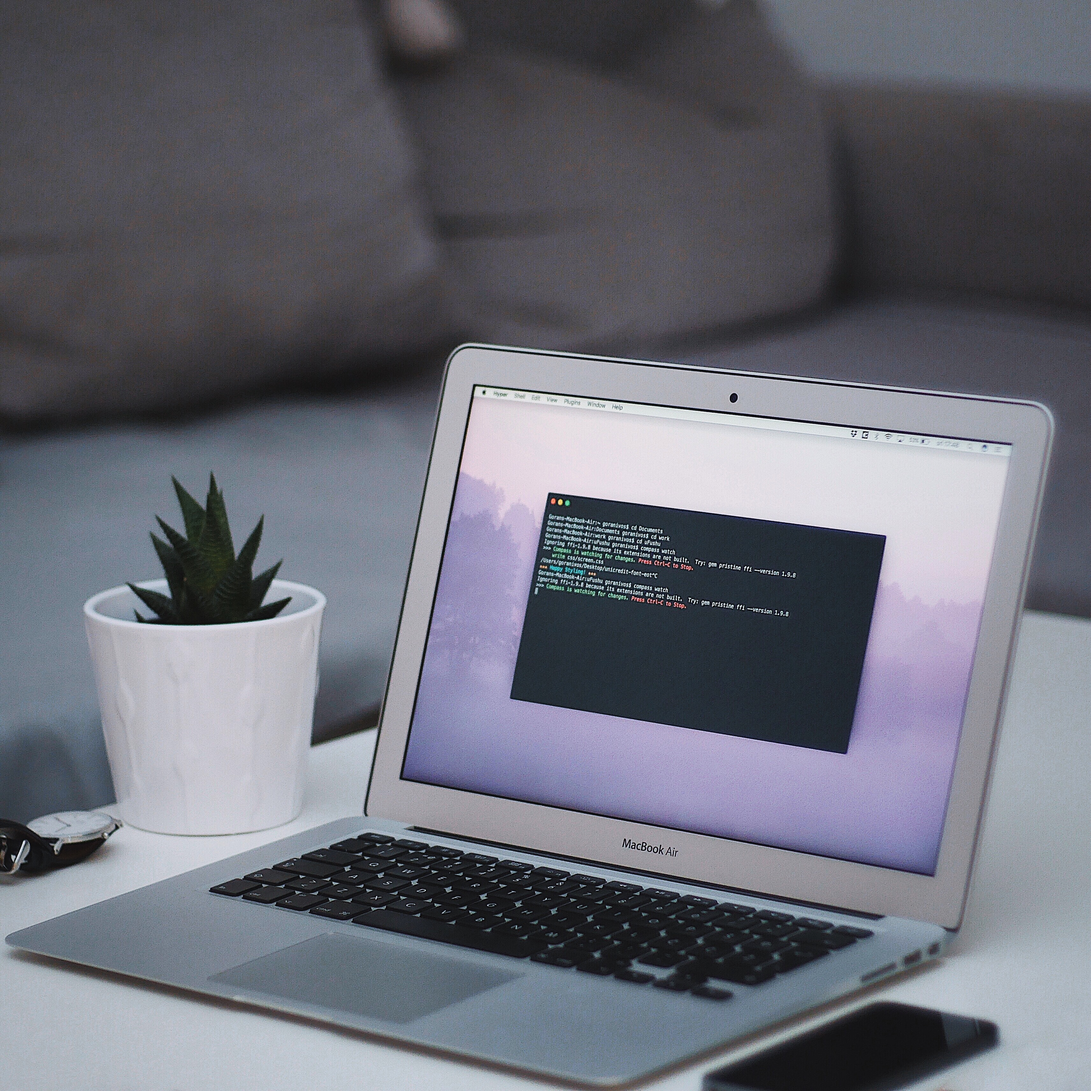
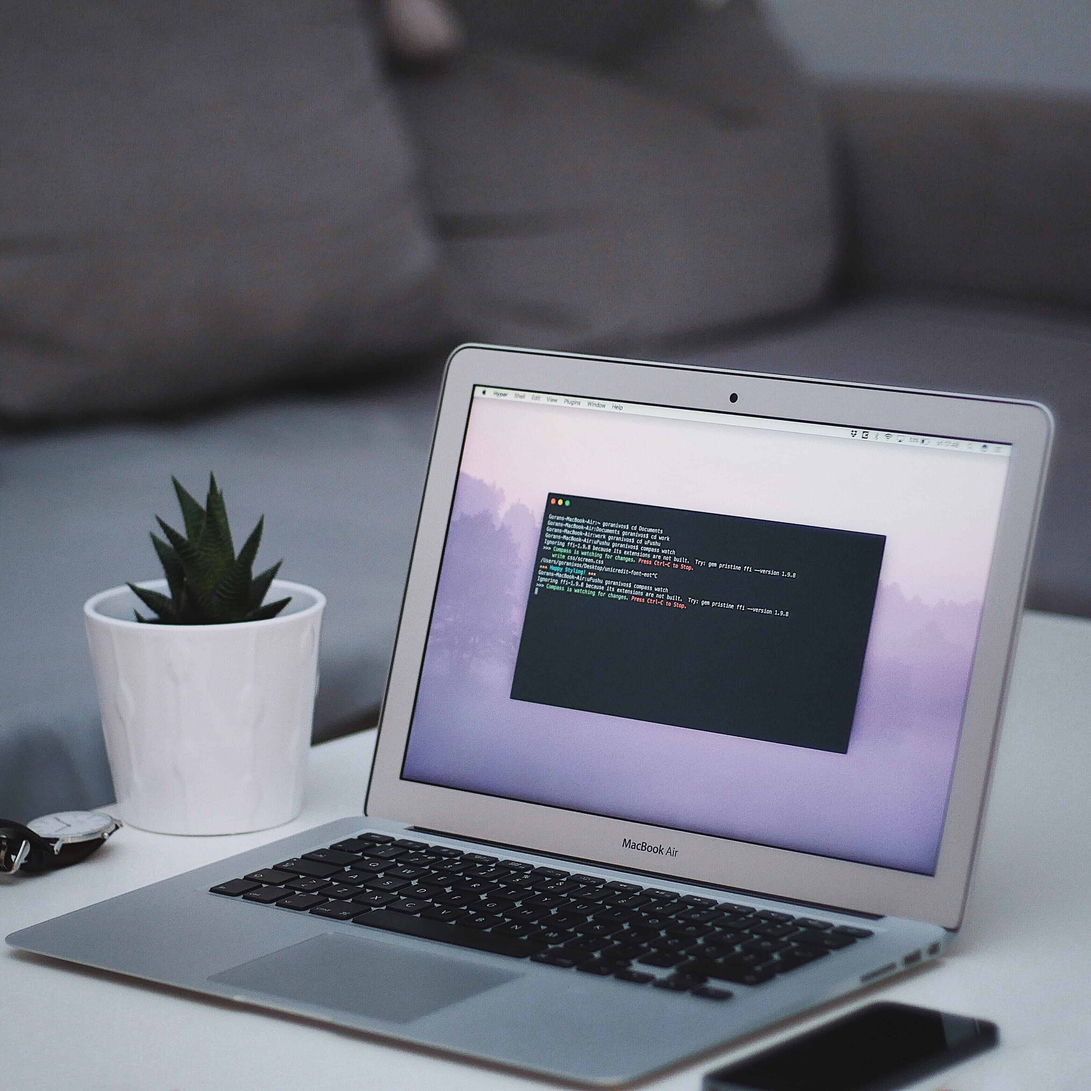
Compressed images

Changed region(s): [[0.5, 0.4688, 0.625, 0.5625]]

diff --git a/index.html b/index.html
@@ -147,7 +147,7 @@
 				</section>
 
 			<!-- Five -->
-				<section id="five" style="padding:2em 0em 0em 0em" class="wrapper style2 special fade">
+				<section id="five" style="padding:2em 1em 0em 1em" class="wrapper style2 special fade">
 					<div class="container">
 						<header>
 							<h2>Get Started Today</h2>
